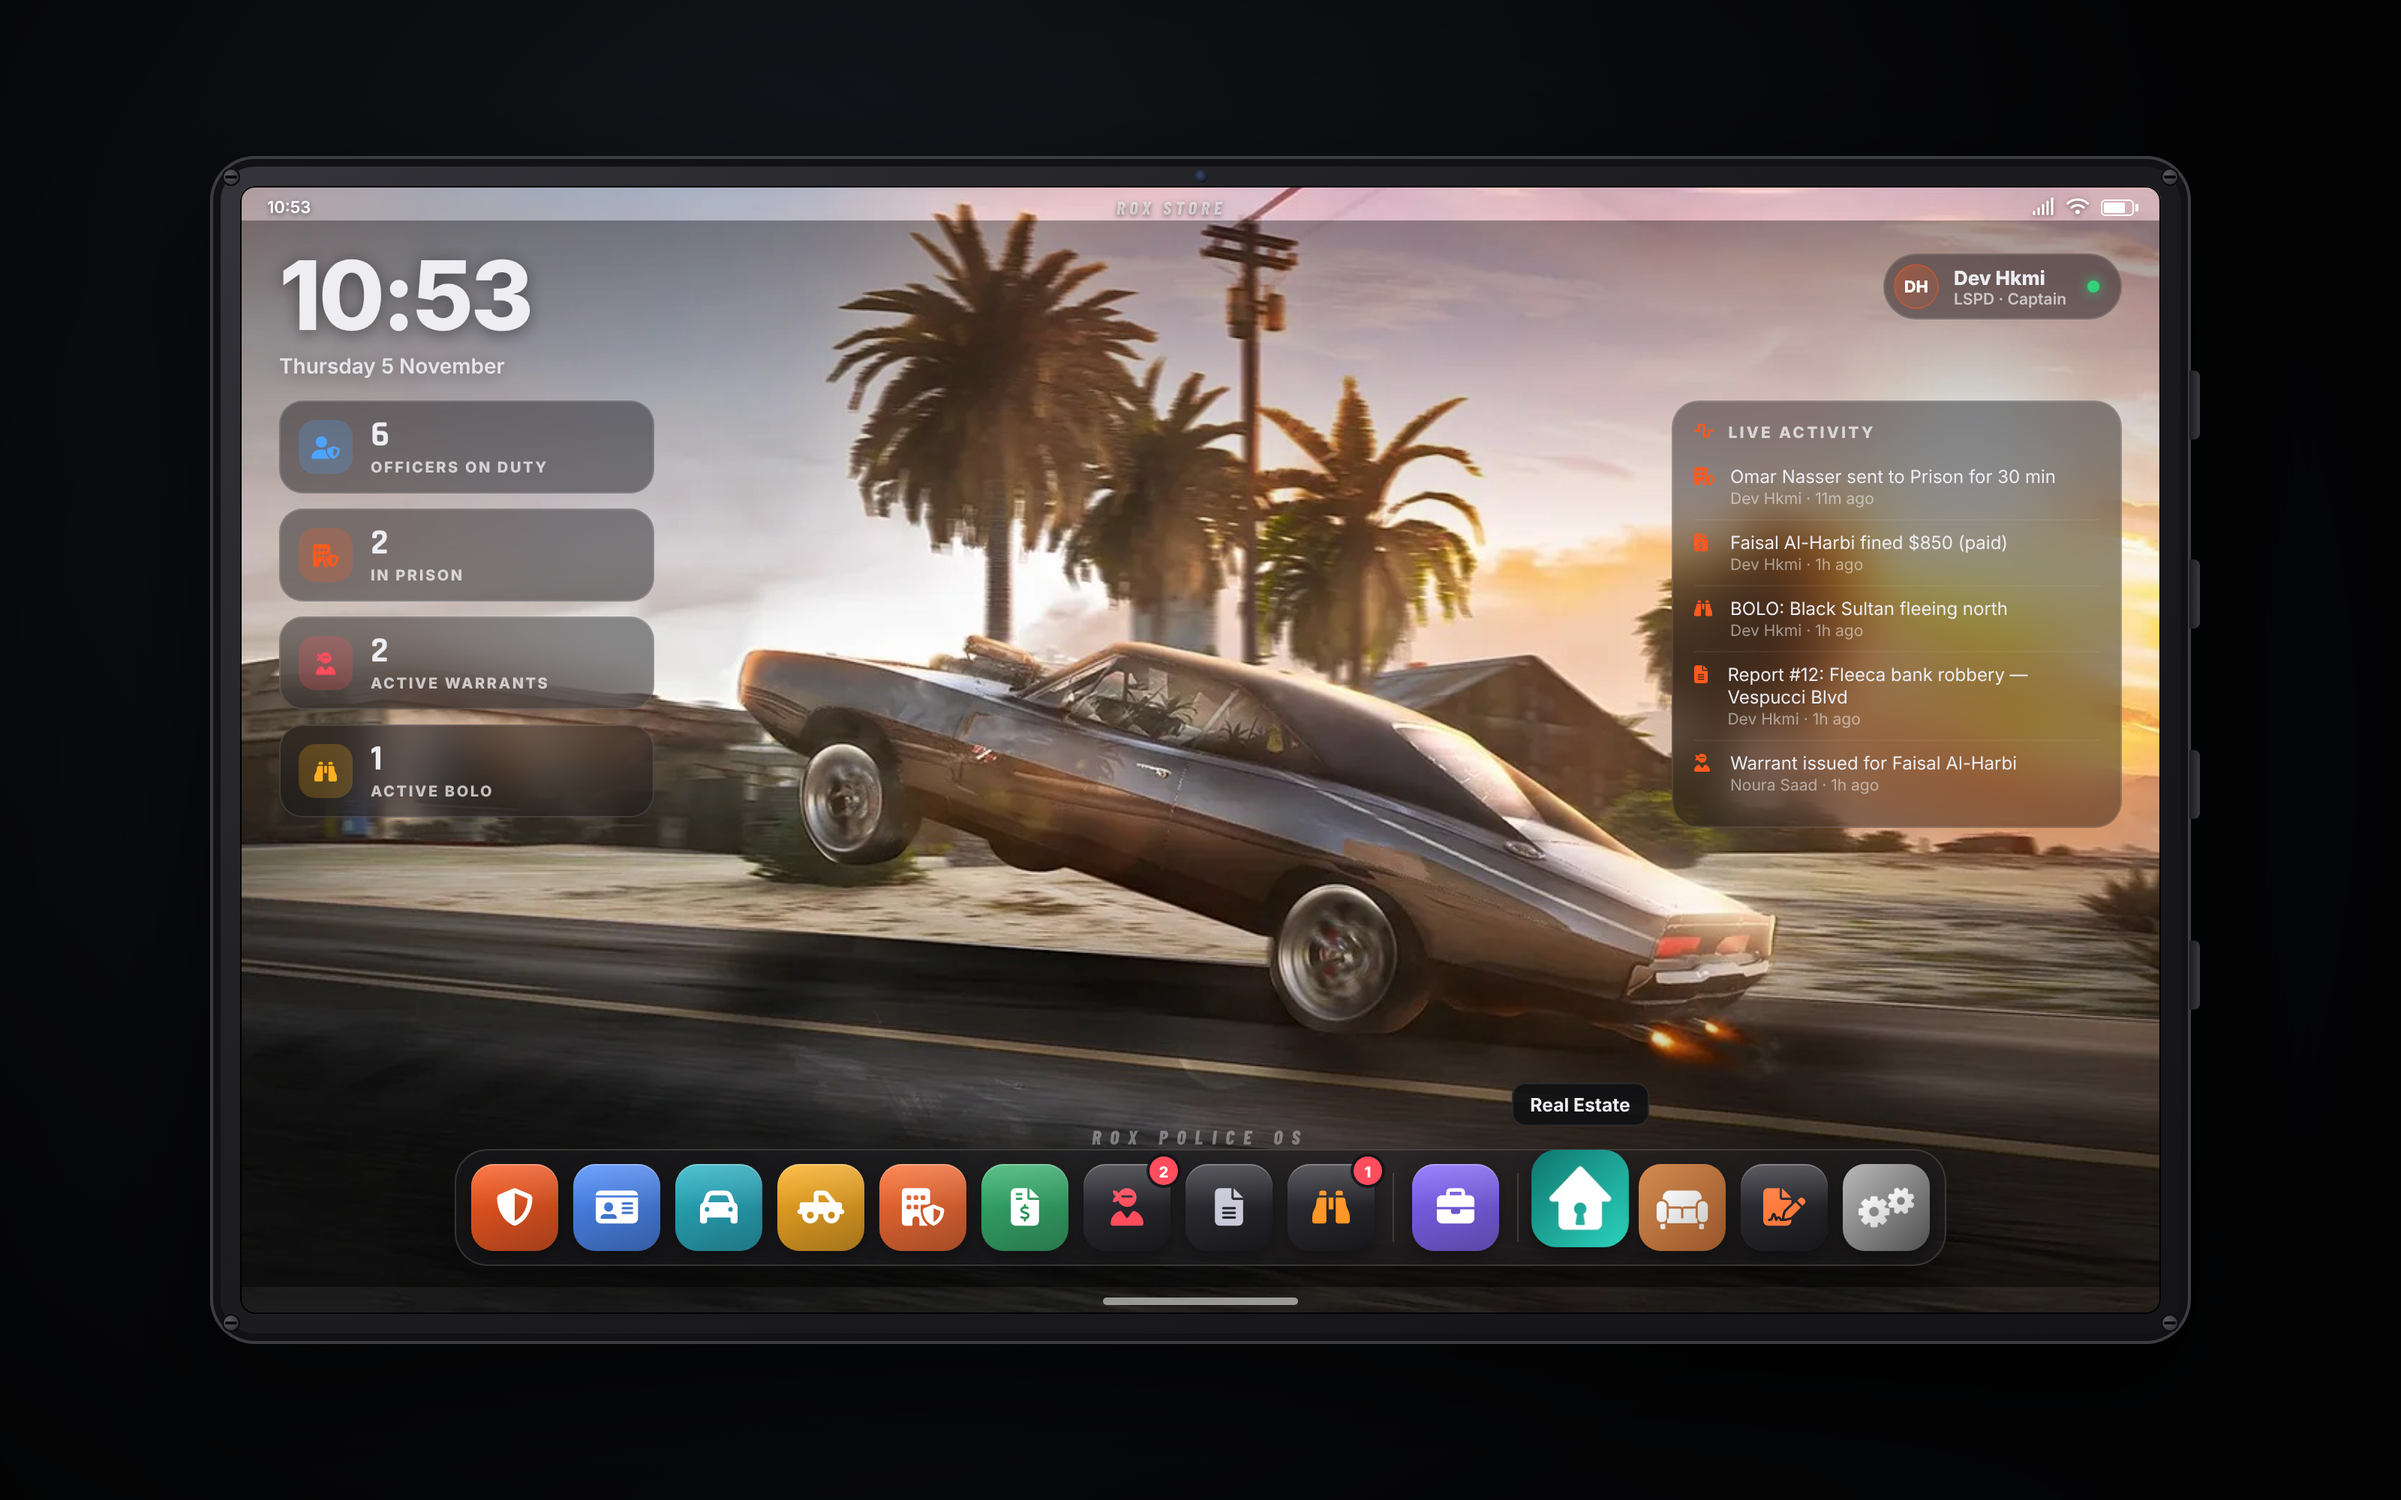
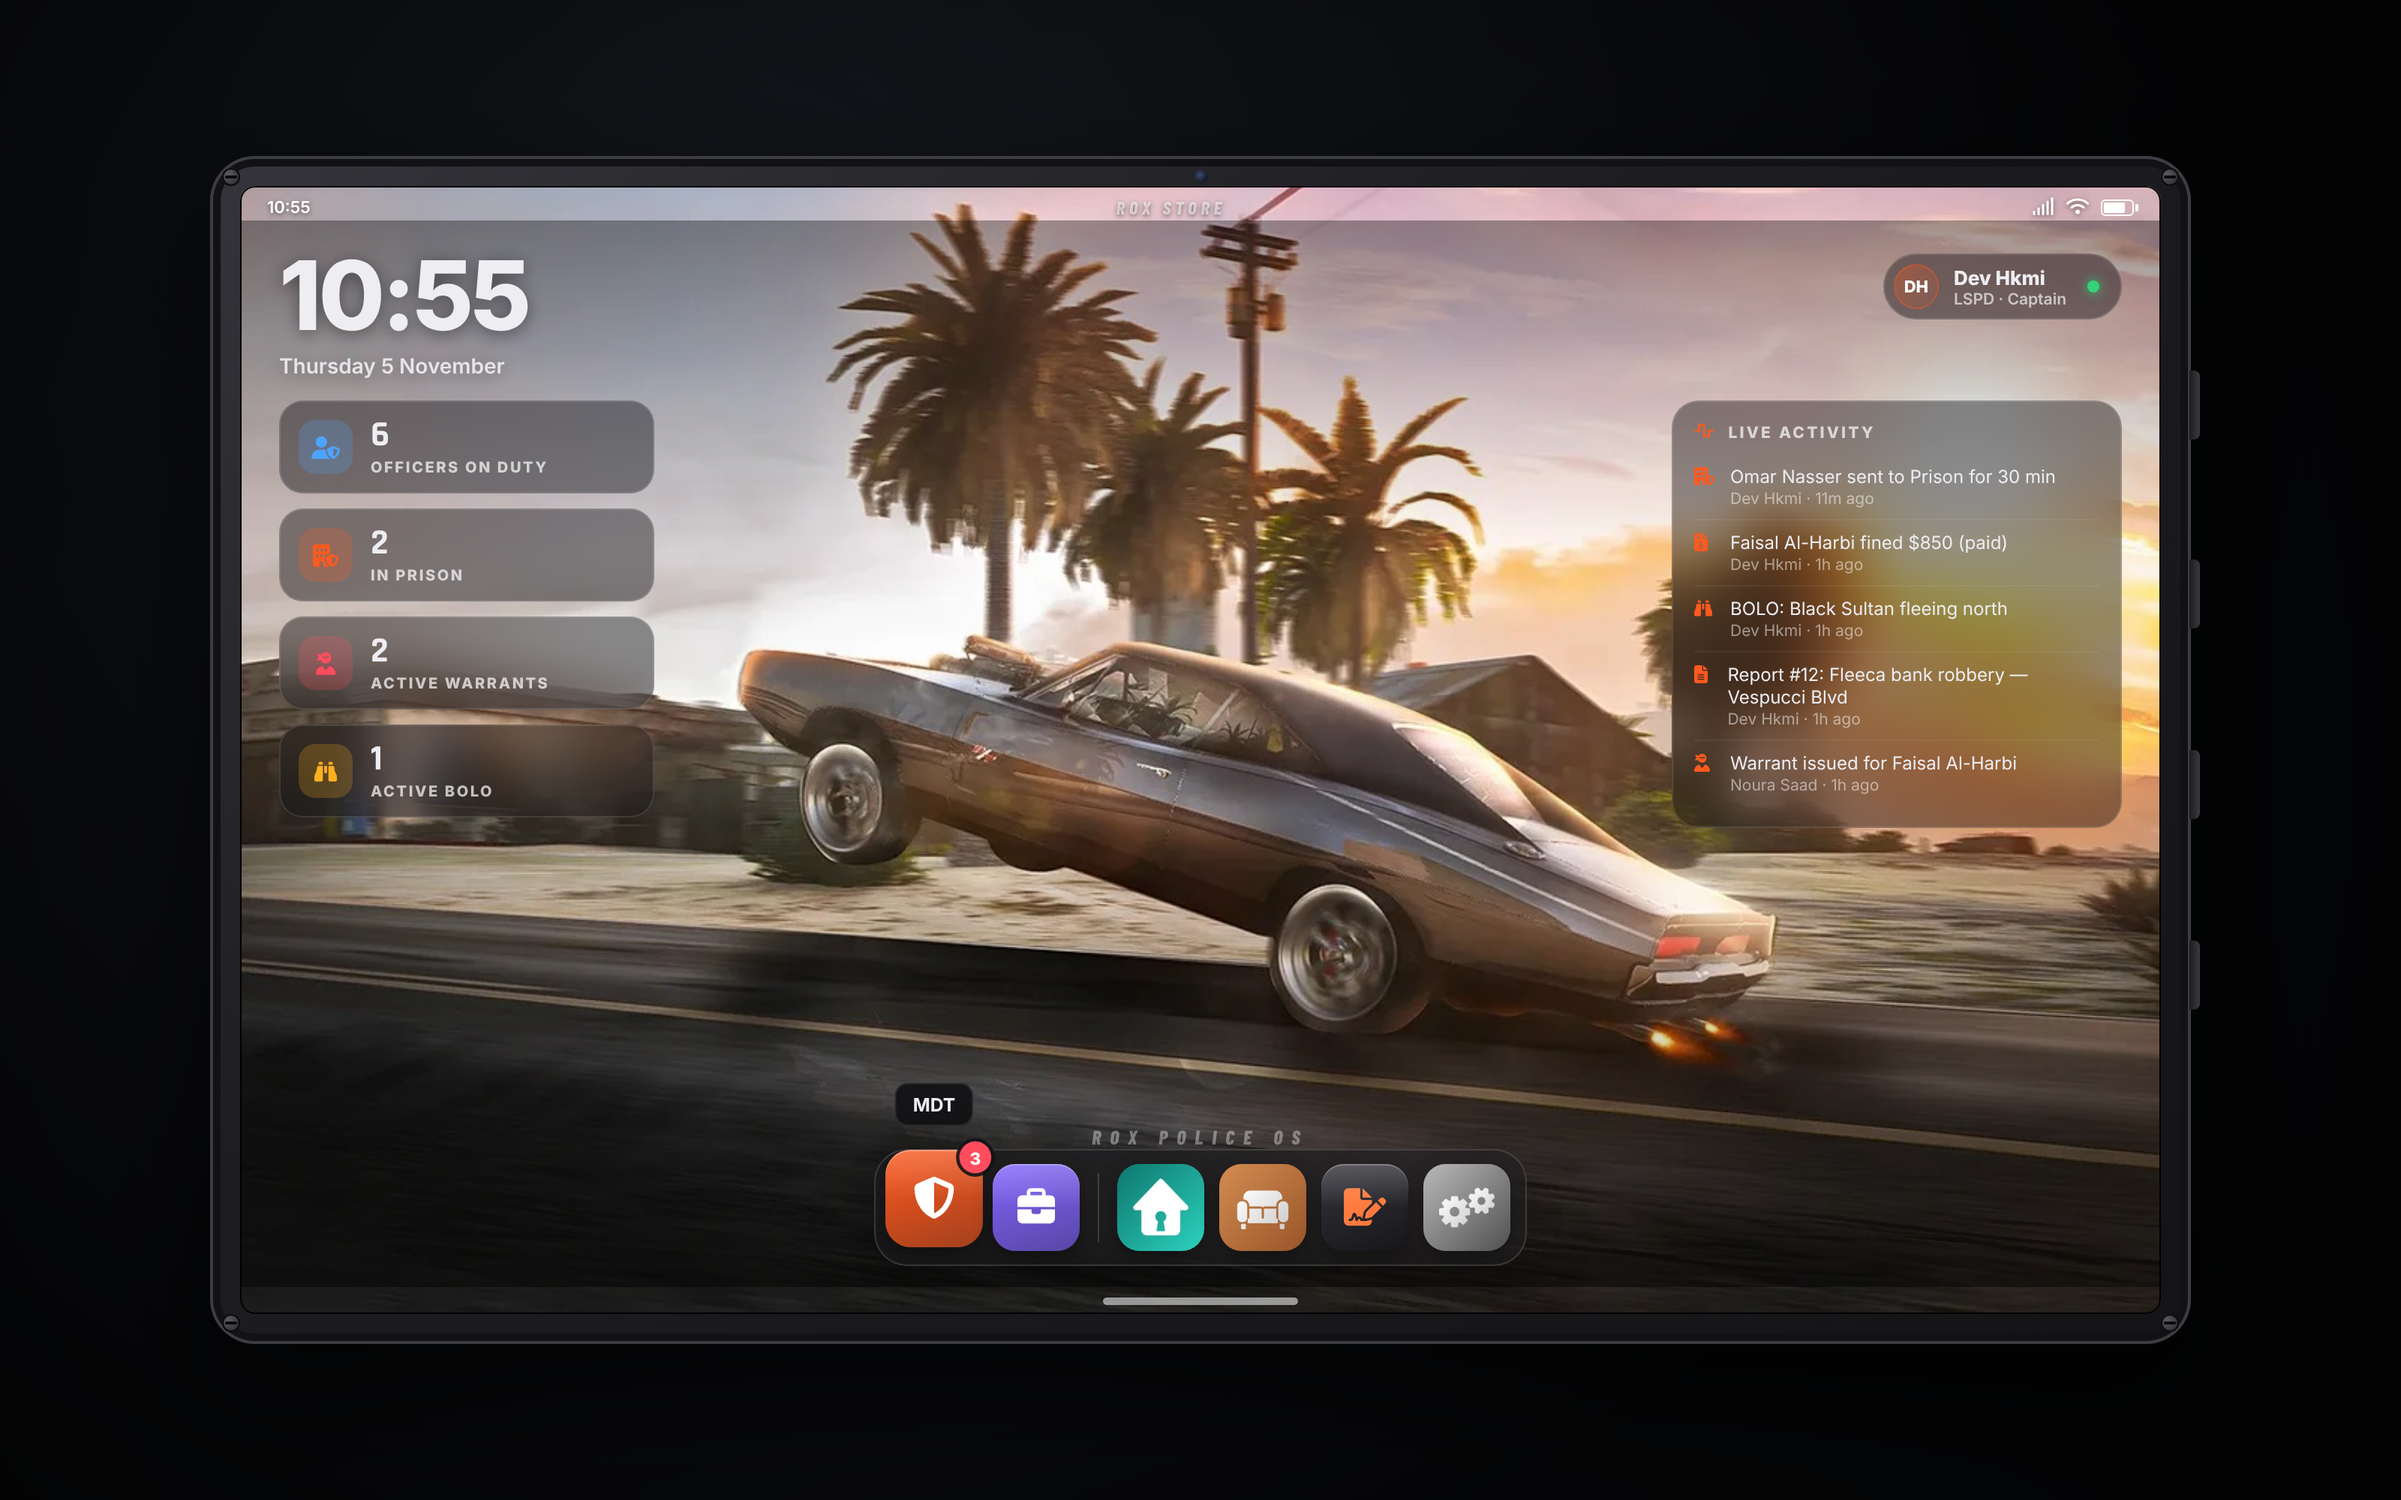
iPad: police reduced to two apps (MDT with everything, Management for leaders)
- Dock and the real estate iPad show only MDT + Management
- MDT tools: impound nearest vehicle and remove mask

Claude-Session: https://claude.ai/code/session_017uaqaDec9LDX4tcS4JCH3C

Changed region(s): [[0.1875, 0.713, 0.8125, 0.837], [0.1875, 0.186, 0.2188, 0.217]]

diff --git a/rox_police/html/app.js b/rox_police/html/app.js
@@ -145,6 +145,7 @@ root.addEventListener('click', (e) => {
     if (k === 'close') return closeAll();
     if (k === 'back') return goBack();
     if (k === 'home') return goHome();
+    if (k === 'quick') { if (!RES) return openPanel(a.dataset.k === 'impound' ? 'impound' : 'strip', a.dataset.k === 'impound' ? { vehicle: { plate: '20HRX818', model: 'Karin Sultan RS', owner: 'Faisal Al-Harbi', registered: true } } : {}); return post('quick', { action: a.dataset.k }); }
     if (k === 'handoff') { if (!RES) return toast('[preview] opens ' + a.dataset.res + ' → ' + a.dataset.app, 'info'); return post('handoff', { res: a.dataset.res, app: a.dataset.app }); }
     if (k === 'app') { const p = a.dataset.p, pg = a.dataset.page; if (p === 'mdt' && pg) { openPanel('mdt', { page: pg }); return; } return openPanel(p); }
     H[k] && H[k](a, e);
@@ -467,6 +468,8 @@ const MDT = {
                     <div class="sep">QUICK ACTIONS</div>
                     <div class="ni" data-a="openJail"><i class="fa-solid fa-building-shield"></i>Prison Management</div>
                     <div class="ni" data-a="openFine"><i class="fa-solid fa-file-invoice-dollar"></i>Citations</div>
+                    <div class="ni" data-a="quick" data-k="impound"><i class="fa-solid fa-truck-pickup"></i>Impound Nearest</div>
+                    <div class="ni" data-a="quick" data-k="strip"><i class="fa-solid fa-masks-theater"></i>Remove Mask</div>
                     ${App.init && App.init.boss ? '<div class="ni" data-a="app" data-p="boss"><i class="fa-solid fa-briefcase"></i>Management</div>' : ''}
                 </div>
                 <div class="me"><div class="avatar">${initials(o.name)}</div><div class="who"><b>${esc(o.name || 'Officer')}</b><span>${esc(o.jobLabel || 'Police')}${o.grade ? ' · ' + esc(o.grade) : ''}</span></div><span class="badge ok">on duty</span></div>
@@ -742,16 +745,7 @@ const Home = {
             ${d.activity && d.activity.length ? `<div class="home-feed glass"><h4><i class="fa-solid fa-wave-square"></i>Live Activity</h4>${d.activity.slice(0, 5).map(a => `<div class="fi"><i class="fa-solid fa-${icons[a.kind] || 'circle'}"></i><div>${esc(a.text)}<small>${esc(a.officer || 'System')} · ${ago(a.t)}</small></div></div>`).join('')}</div>` : ''}
             <div class="home-brand">ROX POLICE OS</div>
             <div class="dock">
-                ${app('mdt', 'shield-halved', 'MDT', '255,90,31')}
-                ${app('mdt:citizens', 'id-card', 'Citizens', '77,141,255')}
-                ${app('mdt:vehicles', 'car', 'Vehicles', '40,180,200')}
-                ${app('mdt:impound', 'truck-pickup', 'Impound', '255,176,32')}
-                ${app('jail', 'building-shield', 'Prison', '255,110,50')}
-                ${app('fine', 'file-invoice-dollar', 'Citations', '52,180,110')}
-                ${app('mdt:warrants', 'user-ninja', 'Warrants', '255,77,94', st.warrants, true)}
-                ${app('mdt:reports', 'file-lines', 'Reports', '200,200,215', 0, true)}
-                ${app('mdt:bolo', 'binoculars', 'BOLO', '255,150,40', st.bolos, true)}
-                <span class="sep"></span>
+                ${app('mdt', 'shield-halved', 'MDT', '255,90,31', (st.warrants || 0) + (st.bolos || 0))}
                 ${App.init && App.init.boss ? app('boss', 'briefcase', 'Management', '130,100,255') : ''}
                 ${(App.ext || []).length ? '<span class="sep"></span>' + App.ext.map(x => `<div class="dock-app" data-a="handoff" data-res="${esc(x.res)}" data-app="${esc(x.app)}" style="--c:${esc(x.c || '255,90,31')}">${x.img ? `<img class="aicon" src="${esc(x.img)}" alt="">` : `<span class="aicon dark"><i class="fa-solid fa-${esc(x.icon)}"></i></span>`}<span class="dock-tip">${esc(x.label)}</span></div>`).join('') : ''}
                 <div class="dock-app" data-a="app" data-p="settings"><img class="aicon" src="img/icons/settings.jpg" alt=""><span class="dock-tip">Settings</span></div>

diff --git a/rox_realestate/html/app.js b/rox_realestate/html/app.js
@@ -1032,7 +1032,7 @@ if (!IS_GAME) {
     if (q.get('lang')) S.settings.lang = q.get('lang');
     if (q.get('wall')) S.settings.wallpaper = `img/wallpapers/${q.get('wall')}.jpg`;
     setTimeout(() => {
-        const ext = q.get('police') ? [['mdt', '', 'MDT', 'shield', '#ff7a3d', '#d8400f'], ['jail', '', 'Prison', 'jail', '#ff9466', '#e0571f'], ['fine', '', 'Citations', 'ticket', '#57d07a', '#1f9e4a'], ['mdt', 'vehicles', 'Vehicles', 'car', '#3cc7dc', '#167f9a'], ['boss', '', 'Management', 'users', '#9b7bff', '#5b33e6']]
+        const ext = q.get('police') ? [['mdt', '', 'MDT', 'shield', '#ff7a3d', '#d8400f'], ['boss', '', 'Management', 'users', '#9b7bff', '#5b33e6']]
             .map(([app, page, label, icon, c1, c2]) => ({ res: 'rox_police', app, page, label, icon, c1, c2 })) : [];
         window.postMessage({ action: 'open', data: Mock.data, static: st, app: q.get('app') || 'home', ext }, '*');
         if (q.get('dialog')) setTimeout(() => confirmDialog('Someone wants to buy your property. Do you want to allow it?', null, null, 'Sale Request'), 100);

diff --git a/rox_police/README.md b/rox_police/README.md
@@ -24,7 +24,10 @@
 
 ### تصميم الـ iPad
 - إطار iPad قوي (براغي، كاميرا، أزرار جانبية)، والشاشة الرئيسية فيها **خلفية** + ساعة + بطاقات زجاجية (الشرطة في الدوام، المساجين، أوامر القبض، BOLO) + **Live Activity**
-- **Dock** تحت فيه كل التطبيقات: MDT، Citizens، Vehicles، Impound، Prison، Citations، Warrants، Reports، BOLO، Management، Settings
+- **تطبيقين بس للشرطة** في الـ Dock:
+  - **MDT**: فيه كل شي للشرطة (المواطنين، السيارات، الحجز، أوامر القبض، التقارير، BOLO، السجن، المخالفات، حجز أقرب سيارة، نزع الماسك)
+  - **Management**: للقادة (كابتن وفوق)
+- وبعدها تطبيقات العقارات (إذا موجودة) والإعدادات
 - داخل التطبيقات الخلفية تصير زجاج مغبش
 - تطبيق **Settings**: تغيير الخلفية (3 خلفيات أو رابط https)، وحجم الـ iPad — ينحفظ لكل لاعب
 

diff --git a/rox_realestate/README.md b/rox_realestate/README.md
@@ -6,7 +6,7 @@
 يدعم **ESX / QBCore / Qbox** تلقائياً (أو standalone للتجربة)، ويحتاج **oxmysql** فقط.
 
 ## ايباد واحد لكل تطبيقات ROX
-إذا `rox_police` شغال، تطلع **تطبيقات الشرطة** في نفس الايباد للي وظيفتهم شرطة: MDT، السجن، المخالفات، السيارات، الحجز، و**الإدارة** (للكابتن وفوق).
+إذا `rox_police` شغال، يطلع في نفس الايباد للي وظيفتهم شرطة تطبيق **MDT** (فيه كل شي للشرطة)، و**الإدارة** للقادة (كابتن وفوق).
 وبالعكس: ايباد الشرطة فيه تطبيقات العقارات (العقارات، الأثاث، العقود).
 - تنتقل بين التطبيقات والتابلت يبقى في يدك (نفس الـ prop).
 - الخلفية وحجم الايباد مشتركة بين كل التطبيقات.
